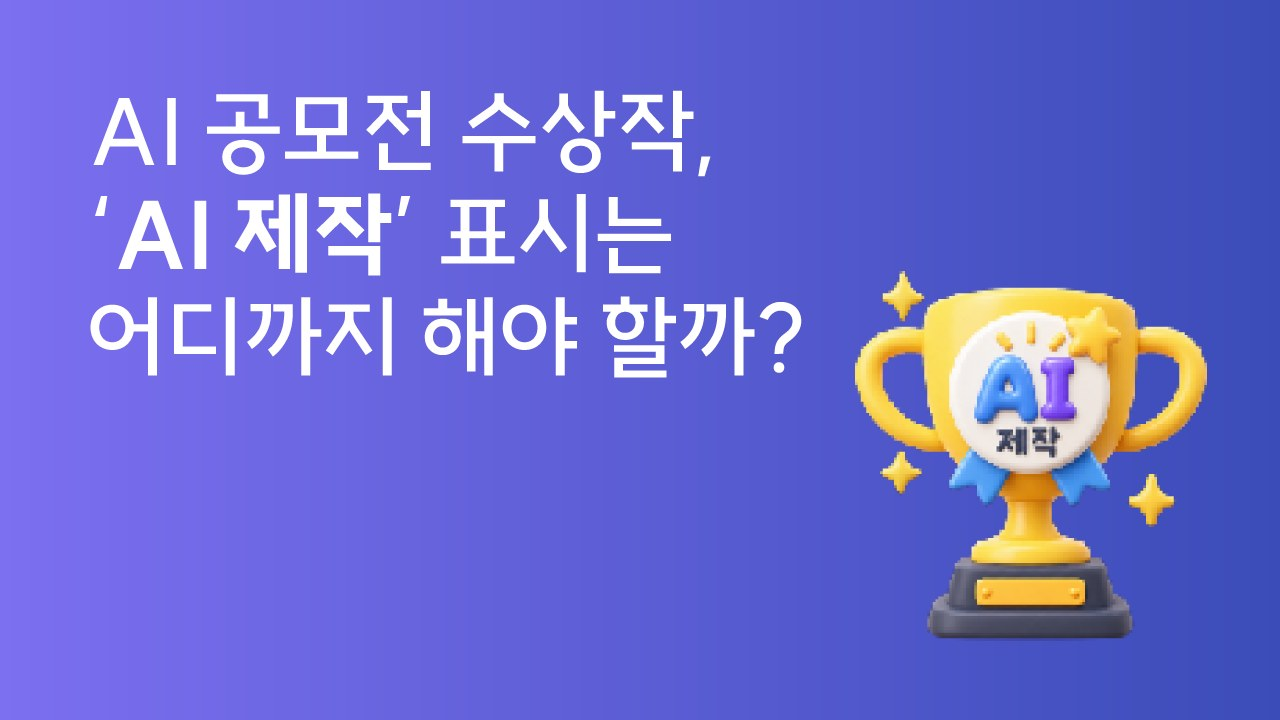
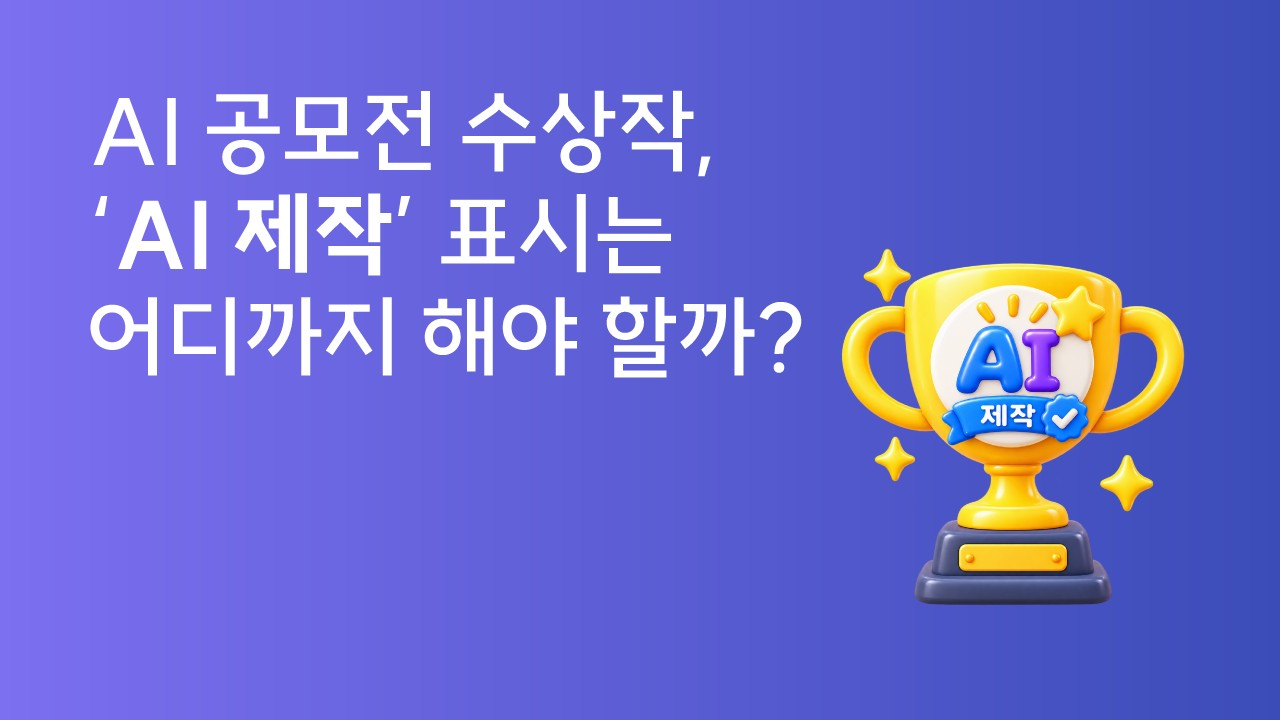
Add files via upload

Changed region(s): [[0.6562, 0.3361, 0.9688, 0.9167]]

diff --git a/out/index.html b/out/index.html
@@ -59,8 +59,7 @@
           <circle cx="150" cy="150" r="118" fill="none" stroke="var(--brand)" stroke-opacity=".11"/>
         </g>
         <g class="hero-core">
-          <circle cx="150" cy="150" r="30" fill="var(--brand)"/>
-          <path transform="translate(150,150) scale(1.35) translate(-12,-12)" fill="var(--on-action)" d="M11 21h-1l1-7H7.5c-.58 0-.57-.32-.38-.66.19-.34.05-.08.07-.12C8.48 10.94 10.42 7.54 13 3h1l-1 7h3.5c.49 0 .56.33.47.51l-.07.15C12.96 17.55 11 21 11 21z"/>
+          <image href="assets/logo-mark.png" x="115" y="115" width="70" height="70"/>
         </g>
         <g class="hero-orbit-dots">
           <g transform="translate(150,34)"><g class="orbit-icon">
